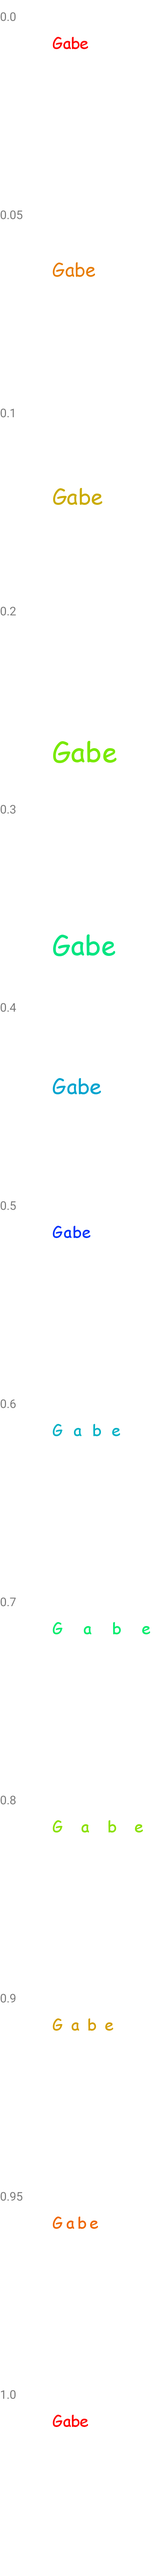
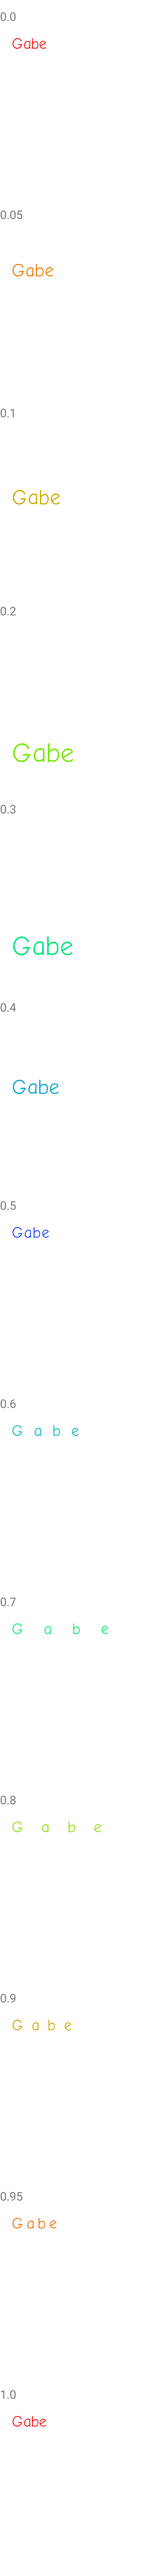
Add more tests

diff --git a/LottieSample/src/androidTest/java/com/airbnb/lottie/LottieTest.java b/LottieSample/src/androidTest/java/com/airbnb/lottie/LottieTest.java
@@ -40,6 +40,7 @@ public class LottieTest {
     TextDelegate delegate = new TextDelegate();
     delegate.setText("NAME", "Gabe");
     TestRobot.testLinearAnimation(activity, "Name.json", null, delegate);
+    TestRobot.testLinearAnimation(activity, "Type.json");
     TestRobot.testLinearAnimation(activity, "lottiefiles.com - Animated Graph.json");
     TestRobot.testLinearAnimation(activity, "lottiefiles.com - Beating Heart.json");
     TestRobot.testLinearAnimation(activity, "lottiefiles.com - Progress Success.json");
